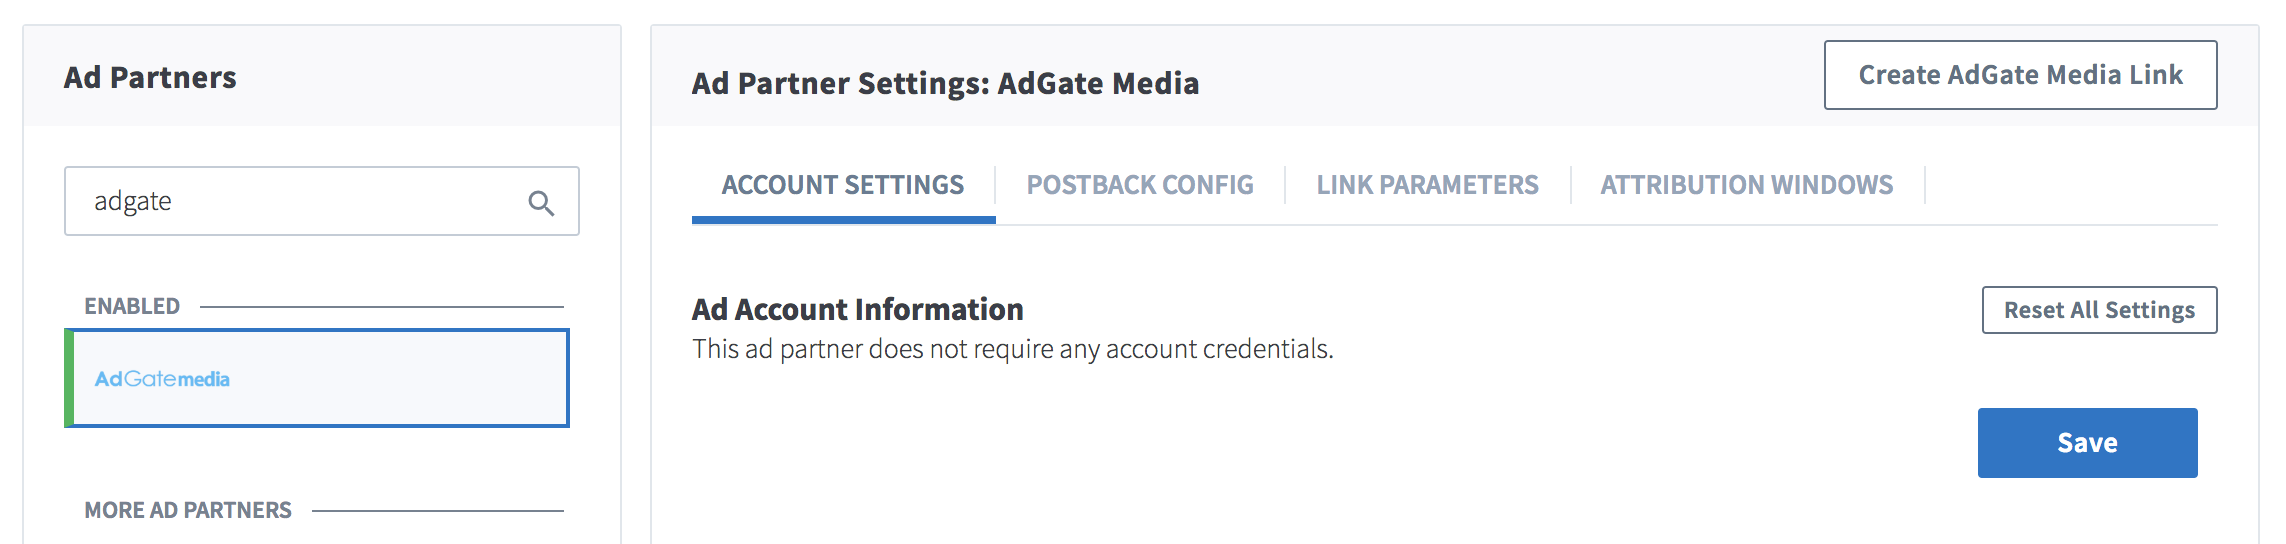
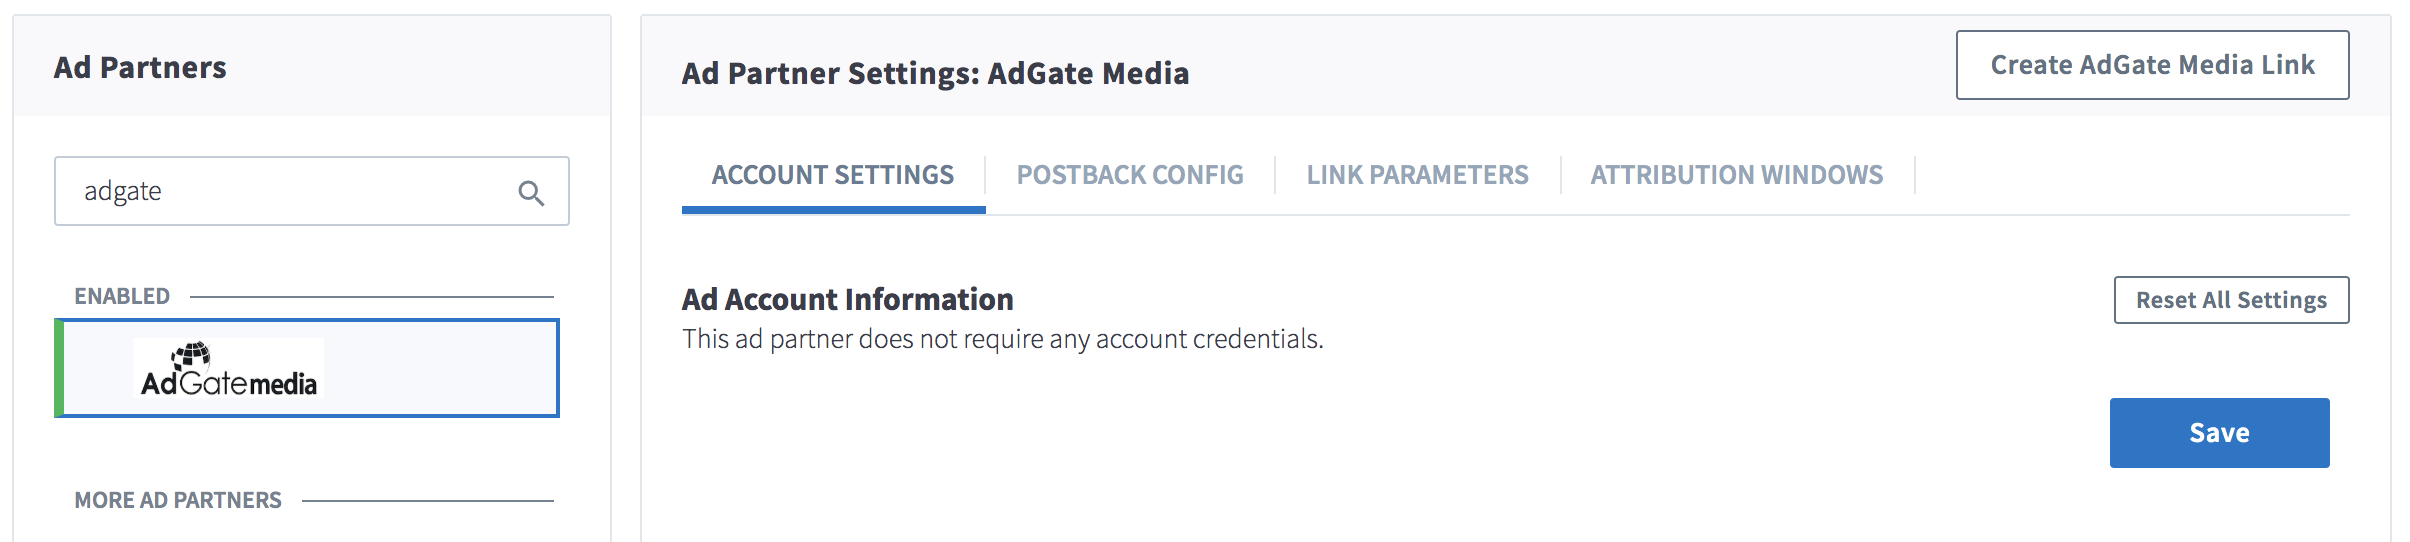
DOCS-622

diff --git a/pages/deep-linked-ads/ad-networks-list.md b/pages/deep-linked-ads/ad-networks-list.md
@@ -32,7 +32,7 @@ Interested in becoming a Universal Ads Partner? Just fill out this form: **[Part
 <a href="https://aff-adeals.com/" target="_blank">![Adeals](https://s3.amazonaws.com/platform_static_files/adnetwork_logos/adeals.png)</a>|**[Adeals](/deep-linked-ads/adeals-mobile-tracking/)**
 <a href="http://www.noqoush.com/noqoush/" target="_blank">![AdFalcon Performance](https://cdn.branch.io/branch-assets/ad-partner-manager//Noqoush_Mobile_logo-1550782934064.png)</a>|**[AdFalcon Performance](/deep-linked-ads/adfalcon-performance-mobile-tracking/)**
 <a href="https://www.adferns.com/" target="_blank">![Adferns](https://cdn.branch.io/branch-assets/ad-partner-manager//adferns_logo-1552090481045.png)</a>|**[Adferns](/deep-linked-ads/adferns-mobile-tracking/)**
-<a href="http://www.misterbell.com/" target="_blank">![AdGate Media](https://s3.amazonaws.com/platform_static_files/adnetwork_logos/AdGate_Media.png)</a>|**[AdGate Media](/deep-linked-ads/adgate-media-mobile-tracking/)**
+<a href="http://www.misterbell.com/" target="_blank">![AdGate Media](https://cdn.branch.io/branch-assets/ad-partner-manager//AdGate_black_logo-1556052073189.png)</a>|**[AdGate Media](/deep-linked-ads/adgate-media-mobile-tracking/)**
 <a href="https://www.adgoi.com" target="_blank">![Adgoi Technologies](https://cdn.branch.io/branch-assets/ad-partner-manager/386574786681131050/logo_black-1530576240115.png)</a>|**[Adgoi Technologies](/deep-linked-ads/adgoi-technologies-mobile-tracking/)**
 <a href="https://www.adikteev.com/us/" target="_blank">![Adikteev](https://cdn.branch.io/branch-assets/ad-partner-manager/386574786681131050/916-1528403002042.png)</a>|**[Adikteev](/deep-linked-ads/adikteev-mobile-tracking/)**
 <a href="https://www.admarketplace.com/" target="_blank">![adMarketplace](https://cdn.branch.io/branch-assets/ad-partner-manager/386574786681131050/AMP_RGB-1540857917335.png)</a>|**[adMarketplace](/deep-linked-ads/admarketplace-mobile-tracking/)**

diff --git a/pages/deep-linked-ads/adgate-media-mobile-tracking.md b/pages/deep-linked-ads/adgate-media-mobile-tracking.md
@@ -1,6 +1,6 @@
 ## Overview
 
-![AdGate Media](https://s3.amazonaws.com/platform_static_files/adnetwork_logos/AdGate_Media.png)
+![AdGate Media](https://cdn.branch.io/branch-assets/ad-partner-manager//AdGate_black_logo-1556052073189.png)
 
 This guide will walk you through how to setup your campaigns with **[AdGate Media](http://www.misterbell.com/)** using Branch Universal Ads and track ad conversions across **every device, platform, and channel**.
 
